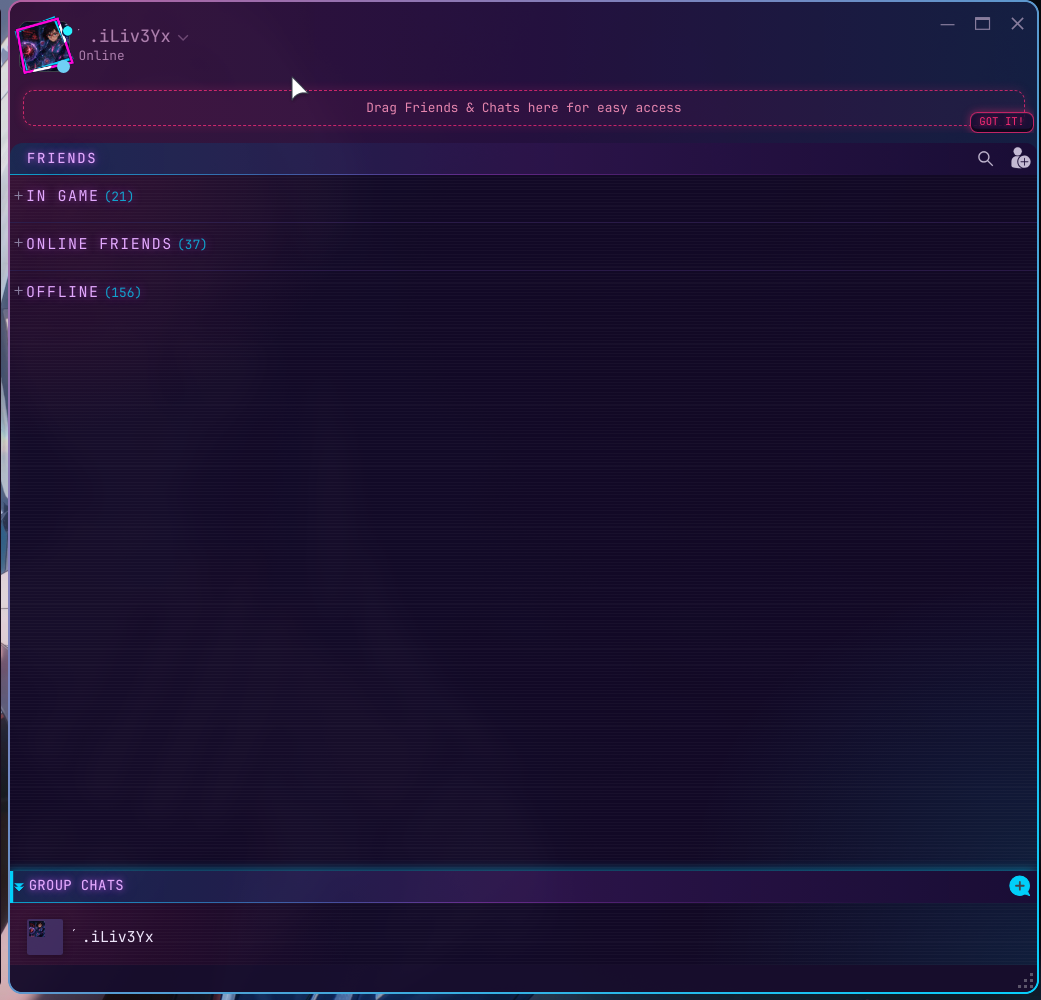
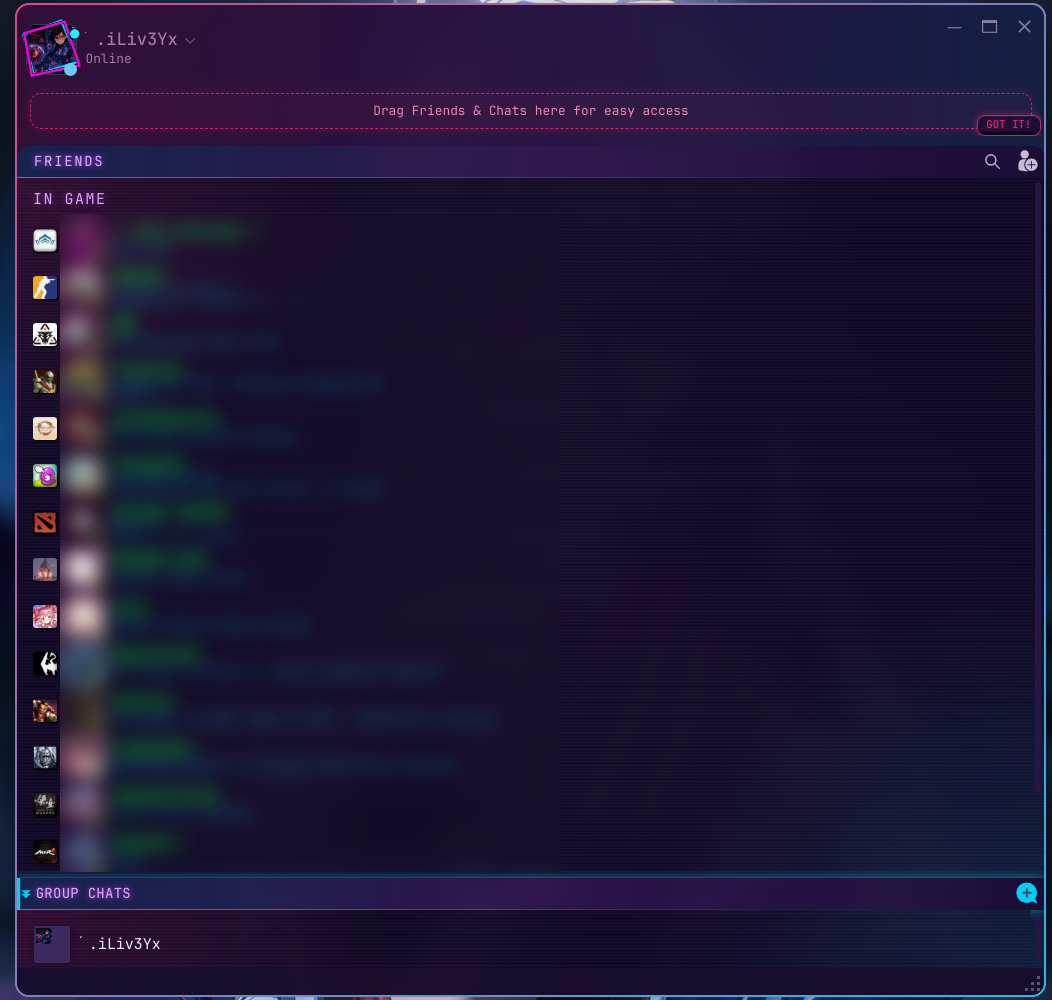
feat: keycap menus, compact supernav and S1B toolbar brand; refresh showcase
Add terminal keycap styling for dropdown and context menus, flat separators without hover, a compact top navigation with raised chips, and an S1B neon-gradient brand in the toolbar in place of the Material label. Replace the README gallery with new library, keycap menu and friends screenshots.

Changed region(s): [[0.0, 0.0, 1.0, 1.0], [0.3381, 0.093, 0.6455, 0.124], [0.2767, 0.062, 0.3074, 0.093]]

diff --git a/css/s1b/neon.css b/css/s1b/neon.css
@@ -200,8 +200,9 @@ button.DialogButton._DialogLayout.Primary:enabled {
 
 /* ---------- 8. Super nav tabs as glowing keycaps ---------- */
 ._7AlhCx3XGzBeIrQaCneUD {
-    padding: 2px 10px !important;
+    padding: 2px 12px !important;
     margin-inline: 3px !important;
+    transform: translateY(-5px);
     border-radius: 9px !important;
     border: 1px solid rgba(255, 255, 255, 0.07) !important;
     background-color: rgba(255, 255, 255, 0.025) !important;
@@ -213,7 +214,7 @@ button.DialogButton._DialogLayout.Primary:enabled {
     box-shadow: var(--keycap-depth), var(--glow-cyan) !important;
 }
 ._7AlhCx3XGzBeIrQaCneUD._1gqEjB5QsKT_NftD1dEsdZ {
-    transform: translateY(1px);
+    transform: translateY(-4px);
     border-color: rgba(255, 45, 120, 0.75) !important;
     background: var(--neon-line) left bottom / 100% 2px no-repeat, rgba(255, 45, 120, 0.13) !important;
     box-shadow: var(--keycap-pressed), 0 0 12px rgba(255, 45, 120, 0.40) !important;
@@ -932,3 +933,128 @@ body .discount_pct {
 }
 ._18PwvOcpWfW3M8j2-bEPPJ,
 ._2MGSmn9lIFnmLVIX49POSx { color: #00d4ff !important; text-shadow: 0 0 6px rgba(0, 212, 255, 0.5); }
+
+/* ---------- 22. Dropdown / context menus: terminal keycap items ---------- */
+._3pofGqV0buiKAfMPEs3_82,
+._20v4MHXd0kP4rRu6ZTAGQU,
+._14wqdluDeDnnEcg3OSLEmd {
+    padding: 6px !important;
+    border: 1px solid rgba(208, 77, 255, 0.55) !important;
+    border-radius: 12px !important;
+    background:
+        var(--neon-line) left top / 100% 2px no-repeat,
+        var(--scanlines),
+        rgba(22, 11, 42, 0.92) !important;
+    backdrop-filter: blur(16px) saturate(140%);
+    box-shadow: 0 12px 30px rgba(0, 0, 0, 0.6), 0 0 10px rgba(208, 77, 255, 0.40), 0 0 26px rgba(255, 45, 120, 0.18) !important;
+}
+._3pofGqV0buiKAfMPEs3_82 ._2jXHP0742MyApMUVUM8IFn,
+._1n7Wloe5jZ6fSuvV18NNWI,
+._1LsipsEx7hFhSXXYv8JyXX,
+._322wB1UQPdladoadh6Ac_b,
+._34o03-8cUc3fQX1u650c0L {
+    margin: 1px 0 !important;
+    padding: 4px 12px 4px 14px !important;
+    min-height: 0 !important;
+    line-height: 1.35 !important;
+    border-radius: 8px !important;
+    border: 1px solid transparent !important;
+    letter-spacing: 0.05em;
+    color: #d9c9ff !important;
+    transition: background .12s ease, border-color .12s ease, color .12s ease, text-shadow .12s ease, padding .12s ease !important;
+}
+._3pofGqV0buiKAfMPEs3_82 ._2jXHP0742MyApMUVUM8IFn:not(.d8GPmAyQdRQwoHiPbc8Js):hover,
+._1n7Wloe5jZ6fSuvV18NNWI:hover,
+._1LsipsEx7hFhSXXYv8JyXX:hover,
+._322wB1UQPdladoadh6Ac_b:hover,
+._34o03-8cUc3fQX1u650c0L:hover {
+    padding-left: 18px !important;
+    border-color: rgba(255, 45, 120, 0.55) !important;
+    background: linear-gradient(90deg, rgba(255, 45, 120, 0.24) 0%, rgba(208, 77, 255, 0.12) 60%, rgba(0, 212, 255, 0.06) 100%) !important;
+    box-shadow: inset 3px 0 0 var(--neon-cyan), 0 0 10px rgba(255, 45, 120, 0.25) !important;
+    color: #fff !important;
+    text-shadow: 0 0 6px rgba(255, 45, 120, 0.7);
+}
+.ixiWPQKqTMxnq43WgT3vj,
+.WUOrULWKkGLl3ZUQdDXg8,
+.IjIBR_wDDi2N77Oz4KAT4 {
+    height: 1px !important;
+    min-height: 0 !important;
+    padding: 0 !important;
+    margin: 4px 8px !important;
+    border: none !important;
+    background: linear-gradient(90deg, transparent, rgba(255, 45, 120, 0.7), rgba(208, 77, 255, 0.6), rgba(0, 212, 255, 0.7), transparent) !important;
+    opacity: 0.8;
+}
+/* Separators never act like items */
+.ixiWPQKqTMxnq43WgT3vj.ixiWPQKqTMxnq43WgT3vj, .ixiWPQKqTMxnq43WgT3vj.ixiWPQKqTMxnq43WgT3vj:hover,
+.WUOrULWKkGLl3ZUQdDXg8.WUOrULWKkGLl3ZUQdDXg8, .WUOrULWKkGLl3ZUQdDXg8.WUOrULWKkGLl3ZUQdDXg8:hover,
+.IjIBR_wDDi2N77Oz4KAT4.IjIBR_wDDi2N77Oz4KAT4, .IjIBR_wDDi2N77Oz4KAT4.IjIBR_wDDi2N77Oz4KAT4:hover {
+    height: 1px !important;
+    min-height: 0 !important;
+    padding: 0 !important;
+    margin: 4px 8px !important;
+    border: none !important;
+    border-radius: 0 !important;
+    box-shadow: none !important;
+    text-shadow: none !important;
+    pointer-events: none;
+    background: linear-gradient(90deg, transparent, rgba(255, 45, 120, 0.7), rgba(208, 77, 255, 0.6), rgba(0, 212, 255, 0.7), transparent) !important;
+}
+
+/* ---------- 23. Toolbar brand: S1B in neon instead of "Material" ---------- */
+body ._1Ky59qmywxOUtNcI1cgmkX ._2Lu3d-5qLmW4i19ysTt2jT:nth-of-type(1):not(svg)::after {
+    content: "S1B" !important;
+    font-weight: 700 !important;
+    letter-spacing: 0.14em !important;
+    background: linear-gradient(90deg, #ff2d78, #d04dff 50%, #00d4ff) !important;
+    -webkit-background-clip: text !important;
+    background-clip: text !important;
+    -webkit-text-fill-color: transparent !important;
+    filter: drop-shadow(0 0 4px rgba(255, 45, 120, 0.65)) drop-shadow(0 0 8px rgba(0, 212, 255, 0.35));
+}
+
+/* ---------- 24. Compact super nav: smaller keycaps, more air above ---------- */
+._7AlhCx3XGzBeIrQaCneUD {
+    padding: 0 10px !important;
+    transform: translateY(-3px);
+}
+._7AlhCx3XGzBeIrQaCneUD._1gqEjB5QsKT_NftD1dEsdZ {
+    transform: translateY(-3px);
+}
+._7AlhCx3XGzBeIrQaCneUD ._19axKcqYRuaJ8vdYKYmtTQ {
+    font-size: 86% !important;
+}
+
+/* ---------- 25. Item wrappers that only hold a separator: flat, mouse-inert ---------- */
+:is(._2jXHP0742MyApMUVUM8IFn, ._1n7Wloe5jZ6fSuvV18NNWI, ._1LsipsEx7hFhSXXYv8JyXX, ._322wB1UQPdladoadh6Ac_b, ._34o03-8cUc3fQX1u650c0L):has(.ixiWPQKqTMxnq43WgT3vj, .WUOrULWKkGLl3ZUQdDXg8, .IjIBR_wDDi2N77Oz4KAT4, hr),
+:is(._2jXHP0742MyApMUVUM8IFn, ._1n7Wloe5jZ6fSuvV18NNWI, ._1LsipsEx7hFhSXXYv8JyXX, ._322wB1UQPdladoadh6Ac_b, ._34o03-8cUc3fQX1u650c0L):has(.ixiWPQKqTMxnq43WgT3vj, .WUOrULWKkGLl3ZUQdDXg8, .IjIBR_wDDi2N77Oz4KAT4, hr):hover {
+    padding: 0 !important;
+    margin: 3px 0 !important;
+    min-height: 0 !important;
+    border: none !important;
+    border-radius: 0 !important;
+    background: none !important;
+    box-shadow: none !important;
+    text-shadow: none !important;
+    pointer-events: none !important;
+    cursor: default !important;
+}
+
+/* ---------- 26. Top-bar dropdown separator (MenuItem.Separator): flat line, mouse-inert ---------- */
+._3pofGqV0buiKAfMPEs3_82 ._2jXHP0742MyApMUVUM8IFn._21GPYlKBCLsHQpTsHw_RL_,
+._3pofGqV0buiKAfMPEs3_82 ._2jXHP0742MyApMUVUM8IFn._21GPYlKBCLsHQpTsHw_RL_:not(.d8GPmAyQdRQwoHiPbc8Js):hover {
+    height: 1px !important;
+    min-height: 0 !important;
+    padding: 0 !important;
+    margin: 4px 8px !important;
+    width: auto !important;
+    border: none !important;
+    border-radius: 0 !important;
+    background: linear-gradient(90deg, transparent, rgba(255, 45, 120, 0.7), rgba(208, 77, 255, 0.6), rgba(0, 212, 255, 0.7), transparent) !important;
+    box-shadow: none !important;
+    text-shadow: none !important;
+    opacity: 0.8;
+    pointer-events: none !important;
+    cursor: default !important;
+}

diff --git a/README.md b/README.md
@@ -24,11 +24,8 @@ A lit city at night that is still easy to read.
     <td colspan="2"><img src="screenshots/library.png" alt="Library"><br><sub><b>Library</b></sub></td>
   </tr>
   <tr>
+    <td width="50%"><img src="screenshots/library-menu.png" alt="Library menu with keycap items"><br><sub><b>Keycap menus</b></sub></td>
     <td width="50%"><img src="screenshots/friends.png" alt="Friends and chat"><br><sub><b>Friends and chat</b></sub></td>
-    <td width="50%"><img src="screenshots/menu.png" alt="Menu"><br><sub><b>Menu</b></sub></td>
-  </tr>
-  <tr>
-    <td colspan="2"><img src="screenshots/settings.png" alt="Settings"><br><sub><b>Settings</b></sub></td>
   </tr>
 </table>
 
@@ -52,6 +49,7 @@ A lit city at night that is still easy to read.
 - **Glass panels** on a deep violet base (`#0f0820` to `#1a0d36`), with soft radial glows and subtle scanlines
 - **Keycap buttons and chips** with depth and press states. PLAY is a neon green keycap
 - **Terminal headers**: uppercase, neon text-shadow and a blinking `>` prompt
+- **Keycap menus**: dropdown and context menu items styled like terminal keycaps, with flat separators, and a compact top navigation
 - **Library**: neon gradient line on the top bar, sidebar edge, collection headers with a glowing cyan bar, capsule hover lift with a cyan and pink ring
 - **Store**: framed main carousel, Personal Calendar cards (past in dim cyan, TODAY in pink glow with a keycap label, future in purple), glass specials panel, pink NEW chip, neon green discount keycaps, glowing carousel dots
 - **Friends and chat**: violet glass list, FRIENDS / GROUP CHATS headers, in-game friends in `#00ff41`, online in cyan, offline dimmed, avatar rings, keycap send button
